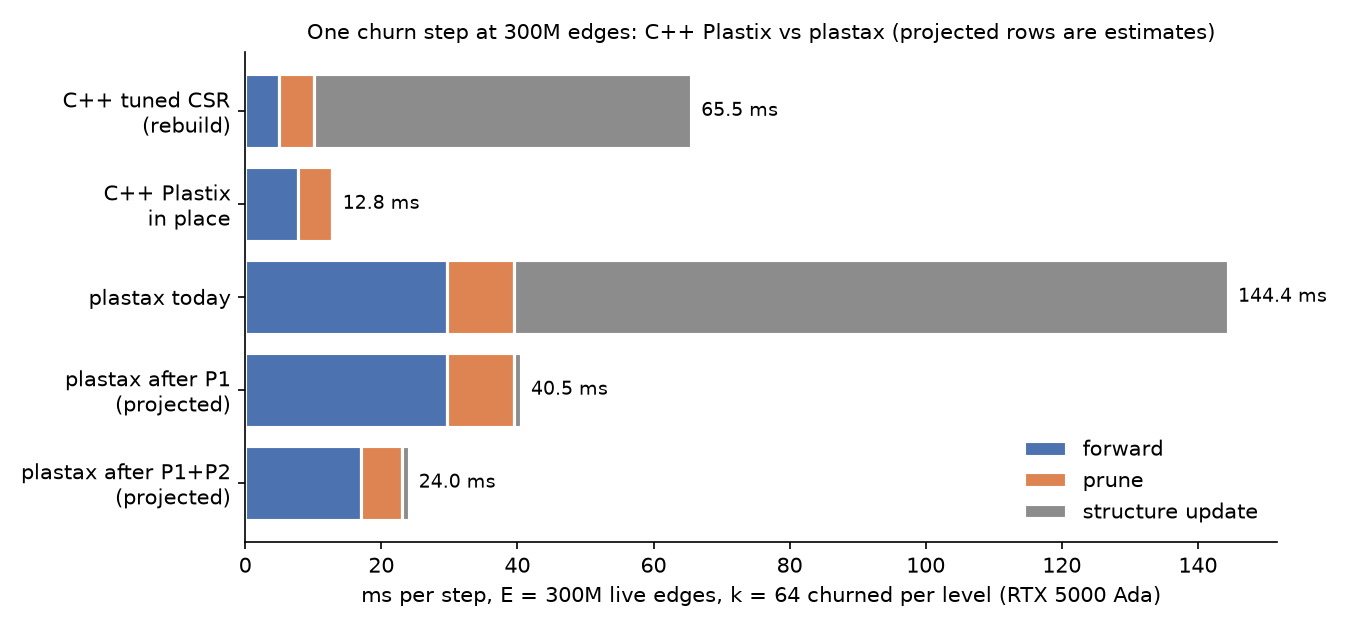
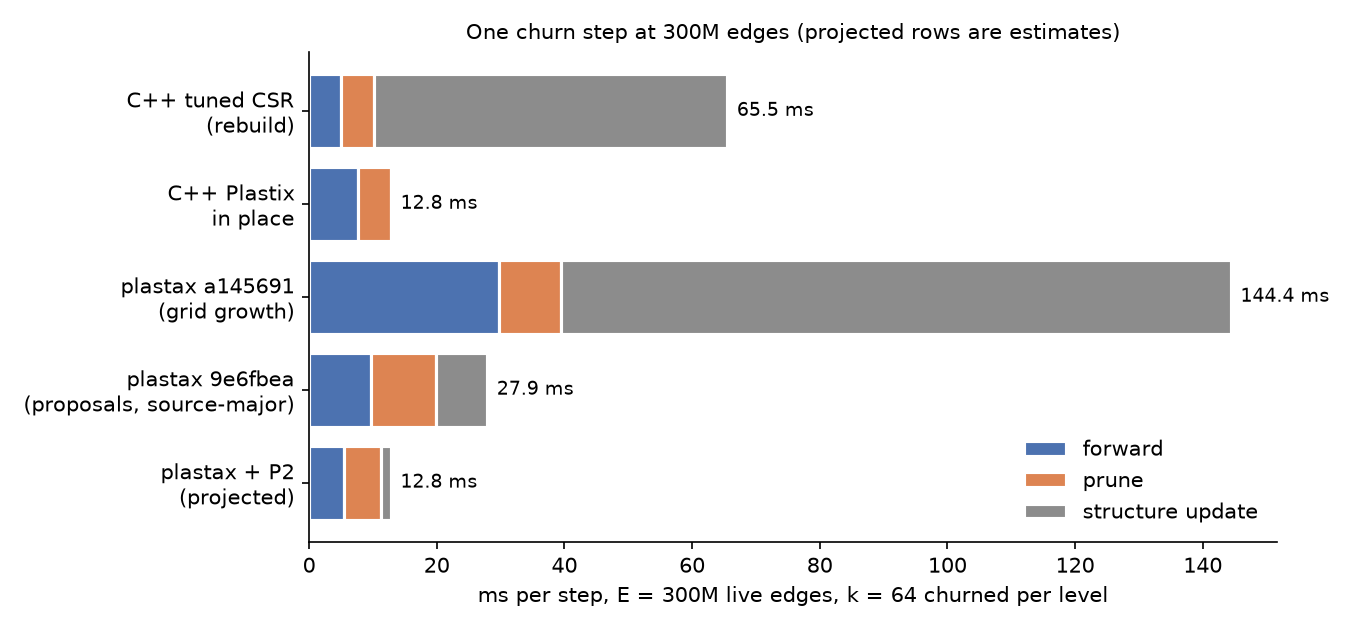
docs(plan): scale loop iteration 2 log, P2 additions, 300M figure
Claude-Session: https://claude.ai/code/session_012LxJVeixun9bghwCZjge2Z

diff --git a/SCALE_PLAN.md b/SCALE_PLAN.md
@@ -186,17 +186,17 @@ Design (refined in iteration 1, from the C++ sampled path in
     O(k log capacity), with no capacity-sized write.
   - The grid path benefits too.
 
-- [ ] 1.1 `perf(phases)`: free-slot claim via `searchsorted` on
+- [x] 1.1 `perf(phases)`: free-slot claim via `searchsorted` on
   `cumsum(dead)`. Keep it Scheme-A-aware, and keep existing tests green.
-- [ ] 1.2 `feat(traits)`: the `ProposeAddConn` protocol (`num_proposals`,
+- [x] 1.2 `feat(traits)`: the `ProposeAddConn` protocol (`num_proposals`,
   `propose`) and the `dedupe` attribute.
   - Validation: a policy defines either `score` (grid) or `propose`.
   - Docstrings state the multigraph semantics and the step-dependent seeding
     requirement (the C++ salt lesson).
-- [ ] 1.3 `feat(phases)`: the propose path, with routing, window, optional
+- [x] 1.3 `feat(phases)`: the propose path, with routing, window, optional
   dedupe (live plus within-step), top-k, claim and init. Scheme-A: proposals
   are replicated, as the grid is.
-- [ ] 1.4 `test(phases)`: equivalence test in the spirit of the C++
+- [x] 1.4 `test(phases)`: equivalence test in the spirit of the C++
   `--validate-every`.
   - Run N in-place churn steps, then rebuild with `from_edges` from the live
     multiset.
@@ -206,6 +206,10 @@ Design (refined in iteration 1, from the C++ sampled path in
   `propose`, run it on the real MultiMNIST stream, and scale to the memory
   bound.
 
+- [x] 1.6 `perf(builder)` / `perf(topo)` (found in iteration 2): source-major
+  bucket layout. The forward at 50M dropped from 4.83 to 1.47 ms on GPU, and
+  forward+backward is 1.4× faster on CPU.
+
 ### P2: capacity and forward bandwidth
 
 - [ ] 2.1 `feat(topo)`: `capacity_policy(..., align=)` with no power-of-two
@@ -213,6 +217,20 @@ Design (refined in iteration 1, from the C++ sampled path in
   `from_edges` / `grow_bucket` / `resort`.
 - [ ] 2.2 Profile the edge-list forward with nsys: materialisation of the
   vmapped `map` output, and gather/scatter fusion. Fix what is fixable in XLA.
+  (Partly superseded: the source-major layout already brought the forward to
+  9.7 ms at 300M, against 7.7 ms for C++.)
+- [ ] 2.4 `perf(phases)`: a two-level free-slot search.
+  - Use a per-block dead count (a reduction reading 1 B per slot), a cumsum
+    over the blocks, and a within-block search for the k claimed ranks.
+  - This replaces the full `cumsum(dead)`, which writes 4 B per slot. It is
+    most of the 8 ms add phase at 300M.
+- [ ] 2.5 `perf(phases)`: prune costs 10.2 ms at 300M, against 5.1 ms for C++.
+  Check whether the predicate's vmap plus the `dead | should_die` write fuse
+  into a single pass.
+- [ ] 2.6 `fix(topo)`: resort sizes capacities with `headroom=0`, which leaves
+  every bucket nearly full after a resort (seen in the equivalence test).
+  Thread the headroom through, so a resort is not followed by an
+  overflow → grow → retrace.
 - [ ] 2.3 Find the largest E that fits on 32 GB, and record it.
 
 ### P3: driver without per-step sync
@@ -282,6 +300,19 @@ the log below:
 
 ## 6. Surfaced for review
 
+- **Bucket layout changed from destination-sorted to source-major**
+  (`d720ece`).
+  - It gives 1.7-3.3× on the GPU forward and 1.4× on CPU. Results change only
+    in floating-point summation order.
+  - A hash-shuffled layout is fastest on GPU for training (fwd+bwd), but 2×
+    slower on CPU. A per-backend layout choice is possible later, and moot
+    once the CSR and Pallas backends exist.
+- **The Driver's overflow retry replays the whole step** (forward, update,
+  prune) on the already-stepped state. This is documented in `Driver.step`.
+  For stateful rules (a decaying update, a Langevin step) it applies them
+  twice. P3 (sticky overflow, drop the growth instead of retrying) would
+  remove this.
+
 - **Exact dedupe on the grid path now costs about 2.5× more past 46,340
   units** (+24 ms at 50M, against +9.5 ms for the old check that silently
   wrapped). That is the price of correctness. Grid-path users at that scale
@@ -320,6 +351,38 @@ the log below:
     (CIFAR is about 4.1K), so past results are unaffected by the bug.
 - **Plan.** P1 was refined into the propose-source design above. It mirrors
   C++ `GrowFanout` (per-unit fan-out sampling, commit without dedupe).
+
+### Iteration 2 (2026-09-30): P1
+
+- **Build:**
+  - `07eb1eb`: free-slot claim by binary search (-1.3 ms at 50M).
+  - `b2eb326`: `ProposeAddConn`, with the protocol, the phase path, 5 propose
+    tests, and the Driver equivalence test.
+  - The equivalence test runs through overflow → `grow_bucket` and resort, and
+    matches a network rebuilt from the live multiset, parallel edges included.
+  - The fast suite now has 277 tests.
+- **Document:** `f4982a9`, `cd4ad3e`, `b123eb0`, `9df71a6`.
+  - Covers the agent docs, the scaffold template, the review checklist, the
+    Deviations entries, and the `__all__` count, which is now 40 (it was
+    already stale at 33).
+- **Explore.**
+  - At 50M, proposal growth costs +1.2 ms against +22.7 ms for grid growth.
+  - Found a forward regression from P0.3: a destination-sorted bucket without
+    the hint serialises scatter-add atomics (4.83 ms against 3.96 ms with the
+    hint).
+  - Measured bucket orders at 50M:
+    - source-major: 1.47 ms fwd, 3.26 ms fwd+bwd (CPU fwd+bwd 9.2 ms);
+    - hash-shuffled: 1.72 / 2.53 ms (CPU 24.4 ms);
+    - destination-sorted: 4.83 / 5.67 ms (CPU 12.8 ms).
+  - Committed source-major as `d720ece` / `9e6fbea`.
+  - **300M churn step: 144 → 27.9 ms** (forward 9.7, prune 10.2, growth 8.0).
+    C++ in place is 12.9 ms; tuned CSR is 65.5 ms. **50M: 4.0 ms**, against
+    2.19 ms for C++.
+- **Plan.**
+  - Added P2.4 (two-level free-slot search), P2.5 (prune fusion) and P2.6
+    (headroom through resort).
+  - P1.5 (DeepR port) remains, because it lives in the bench repo.
+  - Ran a `plastax-review` pass over the branch.
 
 ## Deviations
 
